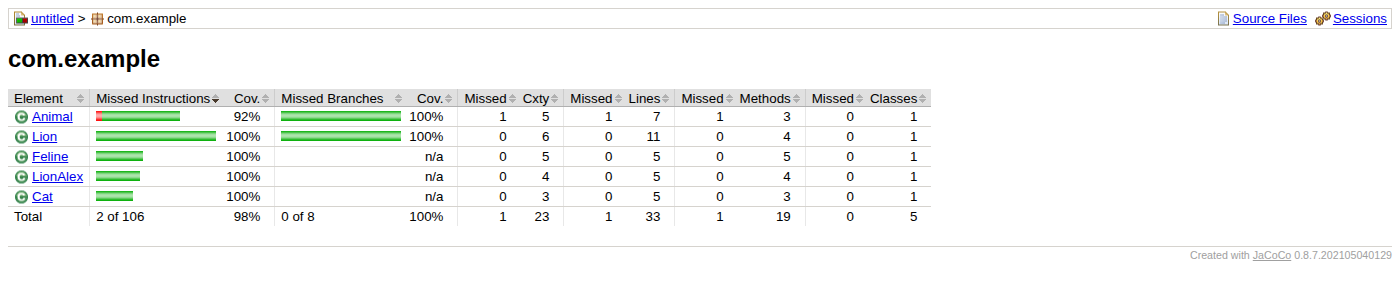
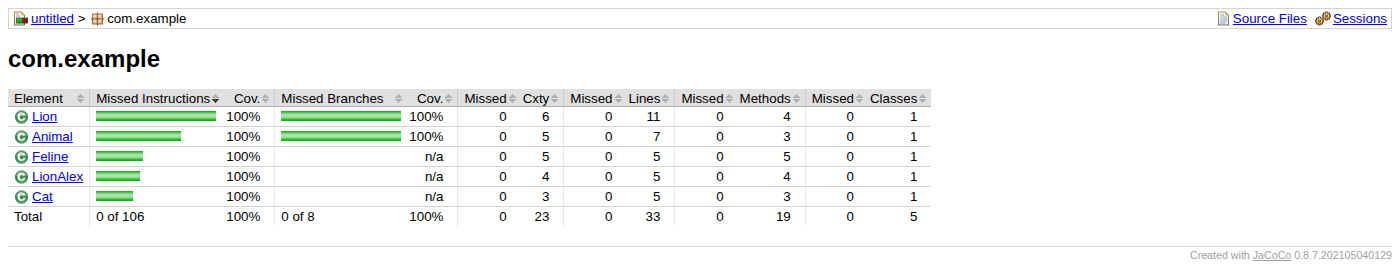
Покрыть Animal.getFamily() тестами, зафиксировать планку 100% и привести заголовок README к общему виду

Changed region(s): [[0.0, 0.2857, 1.0, 0.9429], [0.0, 0.0, 1.0, 0.1143], [0.0, 0.1714, 0.1229, 0.2571]]

diff --git a/src/test/java/AnimalTest.java b/src/test/java/AnimalTest.java
@@ -1,0 +1,42 @@
+import com.example.Animal;
+import org.junit.Test;
+
+import java.util.List;
+
+import static org.junit.Assert.*;
+
+/**
+ * Тесты базового класса Animal.
+ *
+ * Наследники переопределяют getFamily(), поэтому через них реализация из Animal
+ * не выполняется — её нужно проверять на объекте самого Animal.
+ */
+public class AnimalTest {
+
+    private static final String EXPECTED_FAMILIES =
+            "Существует несколько семейств: заячьи, беличьи, мышиные, кошачьи, псовые, медвежьи, куньи";
+
+    private final Animal animal = new Animal();
+
+    @Test
+    public void getFamilyShouldReturnListOfFamilies() {
+        assertEquals(EXPECTED_FAMILIES, animal.getFamily());
+    }
+
+    @Test
+    public void getFoodForHerbivoreShouldReturnPlants() throws Exception {
+        assertEquals(List.of("Трава", "Различные растения"), animal.getFood("Травоядное"));
+    }
+
+    @Test
+    public void getFoodForPredatorShouldReturnMeat() throws Exception {
+        assertEquals(List.of("Животные", "Птицы", "Рыба"), animal.getFood("Хищник"));
+    }
+
+    @Test
+    public void getFoodForUnknownKindShouldThrowException() {
+        Exception thrown = assertThrows(Exception.class, () -> animal.getFood("Насекомое"));
+        assertEquals("Неизвестный вид животного, используйте значение Травоядное или Хищник",
+                thrown.getMessage());
+    }
+}

diff --git a/README.md b/README.md
@@ -1,11 +1,11 @@
-# 🦁 Madagascar JUnit Mockito
+# Madagascar — unit-тесты
 
 [![tests](https://github.com/TatyanaKovalewa/madagascar-unit-tests/actions/workflows/tests.yml/badge.svg)](https://github.com/TatyanaKovalewa/madagascar-unit-tests/actions/workflows/tests.yml)
 [![Java](https://img.shields.io/badge/Java-11-orange)](https://openjdk.org/projects/jdk/11/)
 [![JUnit](https://img.shields.io/badge/JUnit-4-25A162)](https://junit.org/junit4/)
 [![Mockito](https://img.shields.io/badge/Mockito-78A641)](https://site.mockito.org/)
 
-**36 тестов, все проходят.** Отчёт о покрытии собирается в CI и публикуется автоматически:
+**40 тестов, все проходят. Покрытие всех классов — 100%.** Отчёт о покрытии собирается в CI и публикуется автоматически:
 
 **👉 [Открыть отчёт JaCoCo](https://tatyanakovalewa.github.io/madagascar-unit-tests/)**
 
@@ -14,10 +14,12 @@
 | Класс | Строки | Ветки |
 |-------|--------|-------|
 | `Lion` | 11/11 | 4/4 |
-| `Animal` | 6/7 | 4/4 |
+| `Animal` | 7/7 | 4/4 |
 | `Feline` | 5/5 | — |
 | `LionAlex` | 5/5 | — |
 | `Cat` | 5/5 | — |
+
+Планка зафиксирована в `pom.xml`: правило `jacoco:check` требует **100% строк и веток** по каждому классу, и сборка падает, если покрытие просядет.
 
 ---
 
